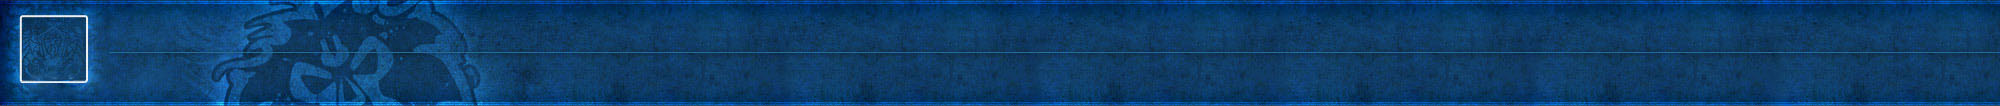
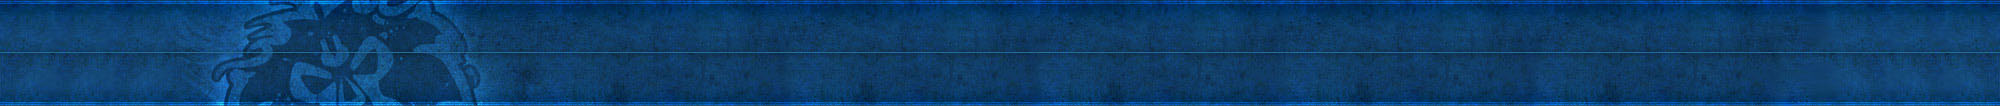
Changed some CSS and images

diff --git a/roster/roster_additions.php b/roster/roster_additions.php
@@ -27,26 +27,29 @@
 		#guild_header_banner_alliance{
 			width:100%;
 			height:106px;
-			background: url('".$this->server_path."games/wow/profiles/factions/banner_alliance.jpg') no-repeat scroll 0px 0px transparent;
+			background: url('".$this->server_path."games/wow/profiles/factions/banner_alliance.jpg') repeat-x scroll 0px 0px transparent;
 			margin-top:30px;
 		}
 		#guild_header_banner_horde{
 			width:100%;
 			height:106px;
-			background: url('".$this->server_path."games/wow/profiles/factions/banner_horde.jpg') no-repeat scroll 0px 0px transparent;
+			background: url('".$this->server_path."games/wow/profiles/factions/banner_horde.jpg') repeat-x scroll 0px 0px transparent;
 			margin-top:30px;
 		}		
 		#guild_emblem { 
-			height:200px;
-			width:230px;
-			margin:-30px 0 0 5px;
+			height:180px;
+			margin:-20px 0 0 5px;
 			float:left;
-		}		
+		}
+		#guild_emblem img{
+			height:150px;
+		} 
+		
 		#guild_name {
 			font-size: 30px; 
 			color: #fff;
 			position:relative; 
-			top:10px; 
+			top:20px; 
 			left:15px;
 			font-weight:bold;
 		}
@@ -54,7 +57,7 @@
 			font-size: 20px; 
 			color: #FFCC33 ;
 			position:relative; 
-			top:30px; 
+			top:50px; 
 			left:15px;
 		}
 		
